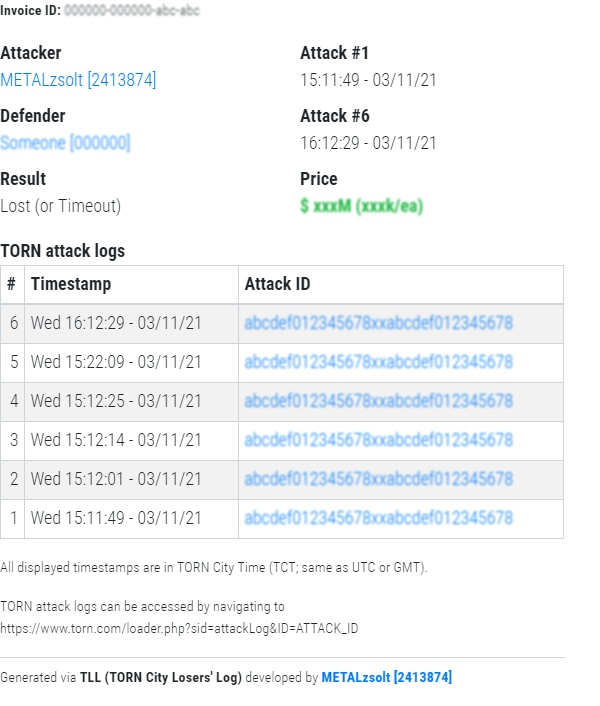
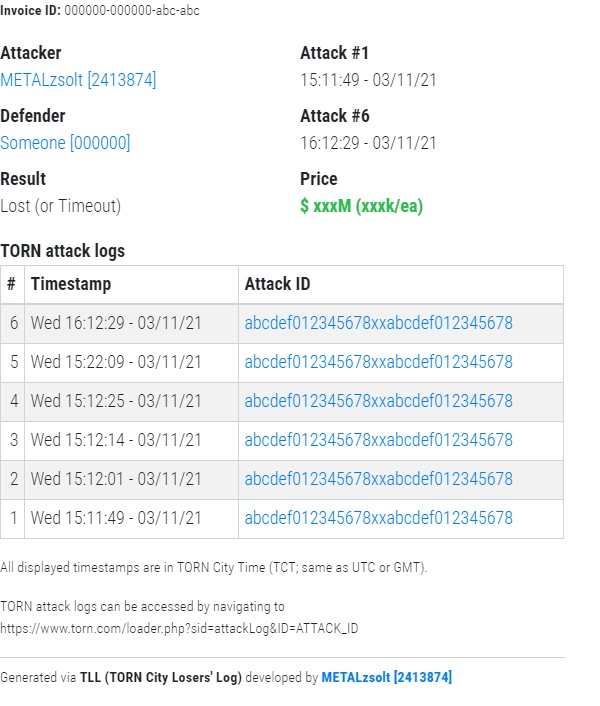
don't need that blur there

diff --git a/pages/invoice.vue b/pages/invoice.vue
@@ -13,7 +13,7 @@
 			<div class="col-12">
 				<p class="small">
 					<strong>Invoice ID:</strong>
-					<span :class="{ censored }">{{ censored ? '000000-000000-abc-abc' : invoiceId }}</span>
+					{{ censored ? '000000-000000-abc-abc' : invoiceId }}
 				</p>
 			</div>
 			<div class="col">
@@ -49,7 +49,7 @@
 					<dt>Price</dt>
 					<dd
 						class="font-weight-bold"
-						:class="[lastAttack.paid ? 'text-success' : 'text-danger', censored ? 'censored' : '']"
+						:class="lastAttack.paid ? 'text-success' : 'text-danger'"
 					>
 						$&nbsp;{{ censored ? 'xxxM' : $price(attacks.length * lastAttack.price) }}
 						({{ censored ? 'xxxk' : $price(lastAttack.price) }}/ea)
@@ -70,7 +70,6 @@
 								{{ $timestamp(a.timestamp) }}
 								<br>
 								<a
-									:class="{ censored }"
 									:href="'https://www.torn.com/loader.php?sid=attackLog&ID=' + a.code"
 									target="_blank"
 								>{{ censored ? 'abcdef0123456789' : a.code }}</a>
@@ -96,7 +95,6 @@
 									<td>{{ $timestamp(a.timestamp) }}</td>
 									<td>
 										<a
-											:class="{ censored }"
 											:href="'https://www.torn.com/loader.php?sid=attackLog&ID=' + a.code"
 											target="_blank"
 										>{{ censored ? 'abcdef012345678xxabcdef012345678' : a.code }}</a>

diff --git a/components/LogItemPrice.vue b/components/LogItemPrice.vue
@@ -1,5 +1,5 @@
 <template>
-	<span :class="[attacks[0].paid ? 'text-success' : 'text-danger', censored ? 'censored' : '']">
+	<span :class="attacks[0].paid ? 'text-success' : 'text-danger'">
 		<span v-if="attacks[0].price">
 			<strong>$&nbsp;{{ censored ? 'xxxM' : $price(attacks[0].price * attacks.length) }}</strong>
 			<span v-if="attacks.length > 1">

diff --git a/components/Player.vue b/components/Player.vue
@@ -1,5 +1,5 @@
 <template>
-	<span v-if="xid" :class="{ censored: blur }">
+	<span v-if="xid">
 		<a
 			v-if="link"
 			:href="url"

diff --git a/assets/_global.scss b/assets/_global.scss
@@ -16,10 +16,6 @@ div#__nuxt,
 	min-height: 100vh;
 }
 
-.censored {
-	filter: blur(1px);
-}
-
 .gap {
 	gap: 1rem;
 }
